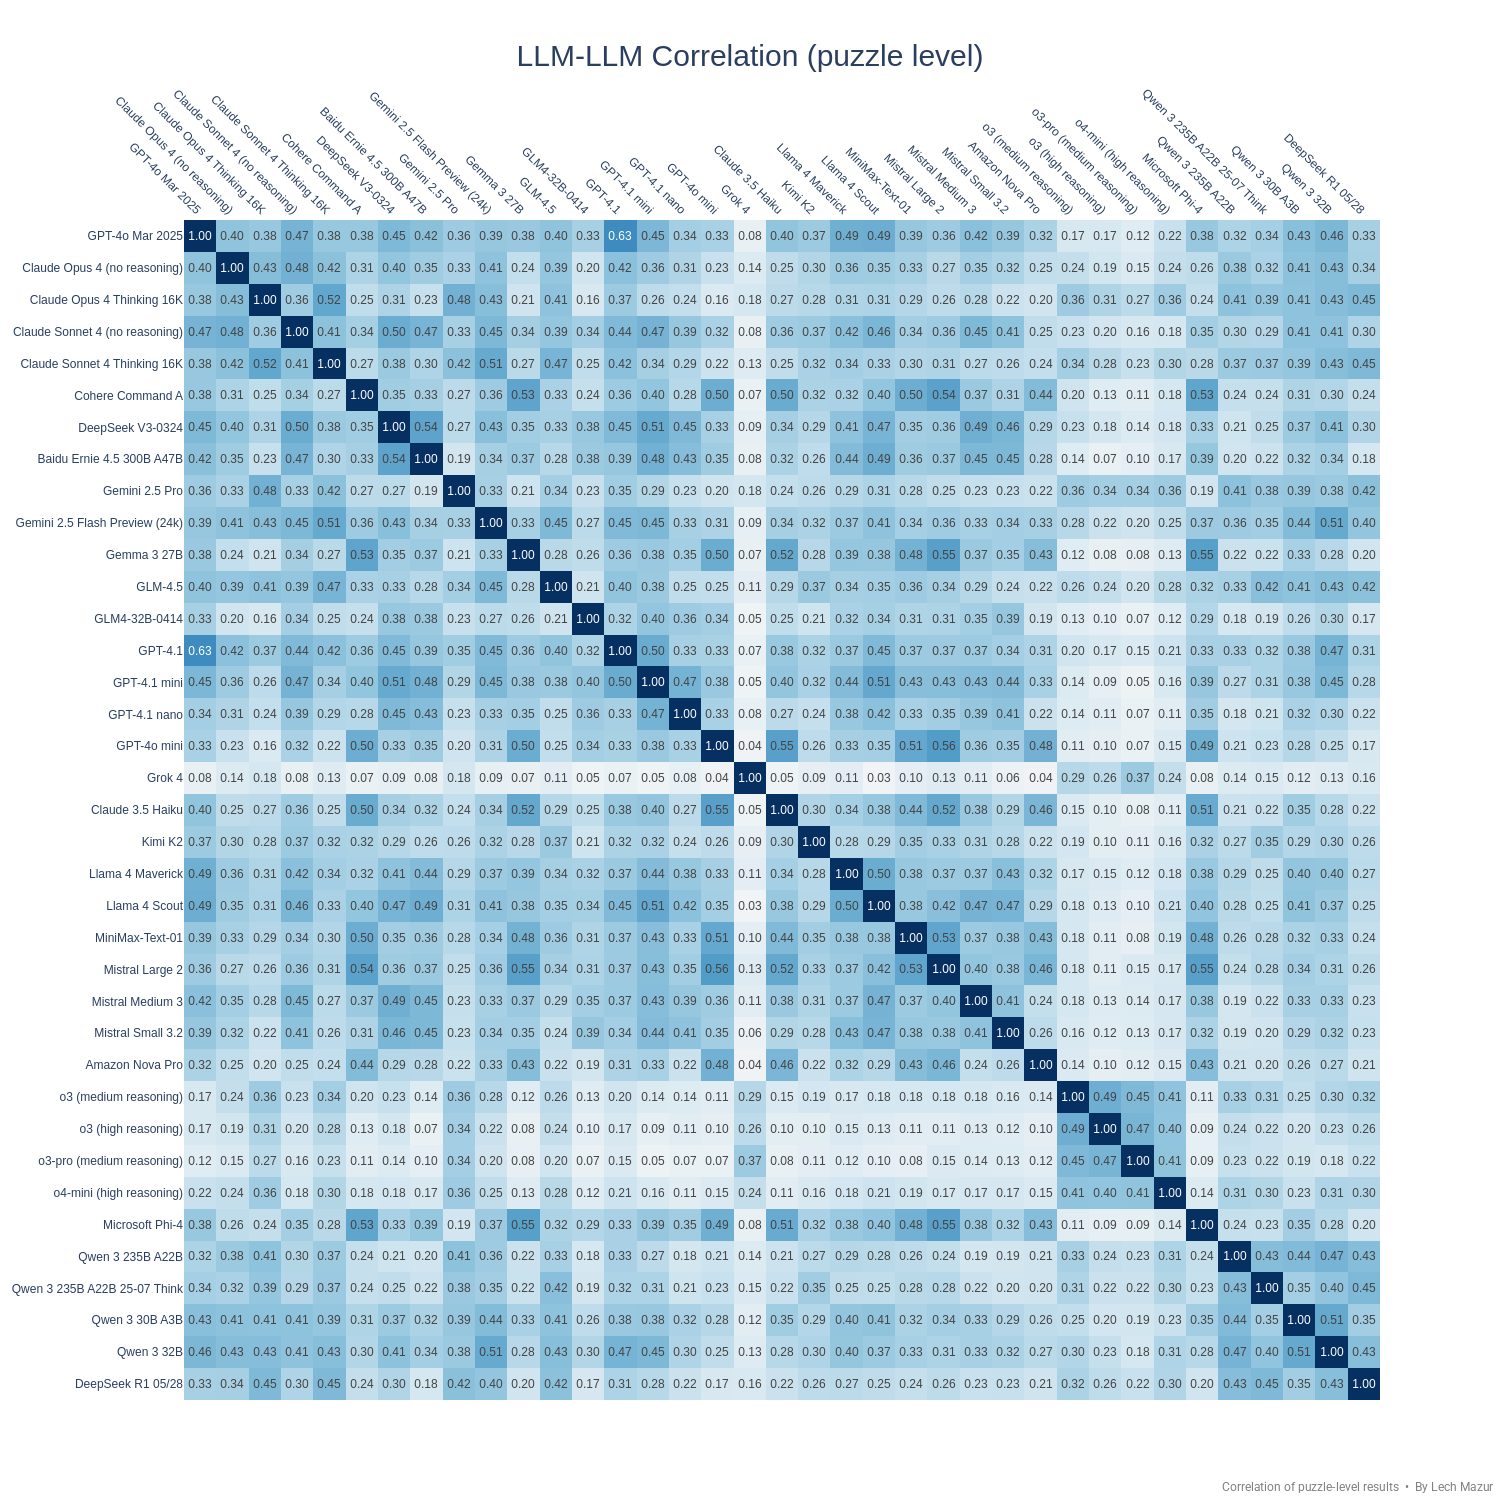
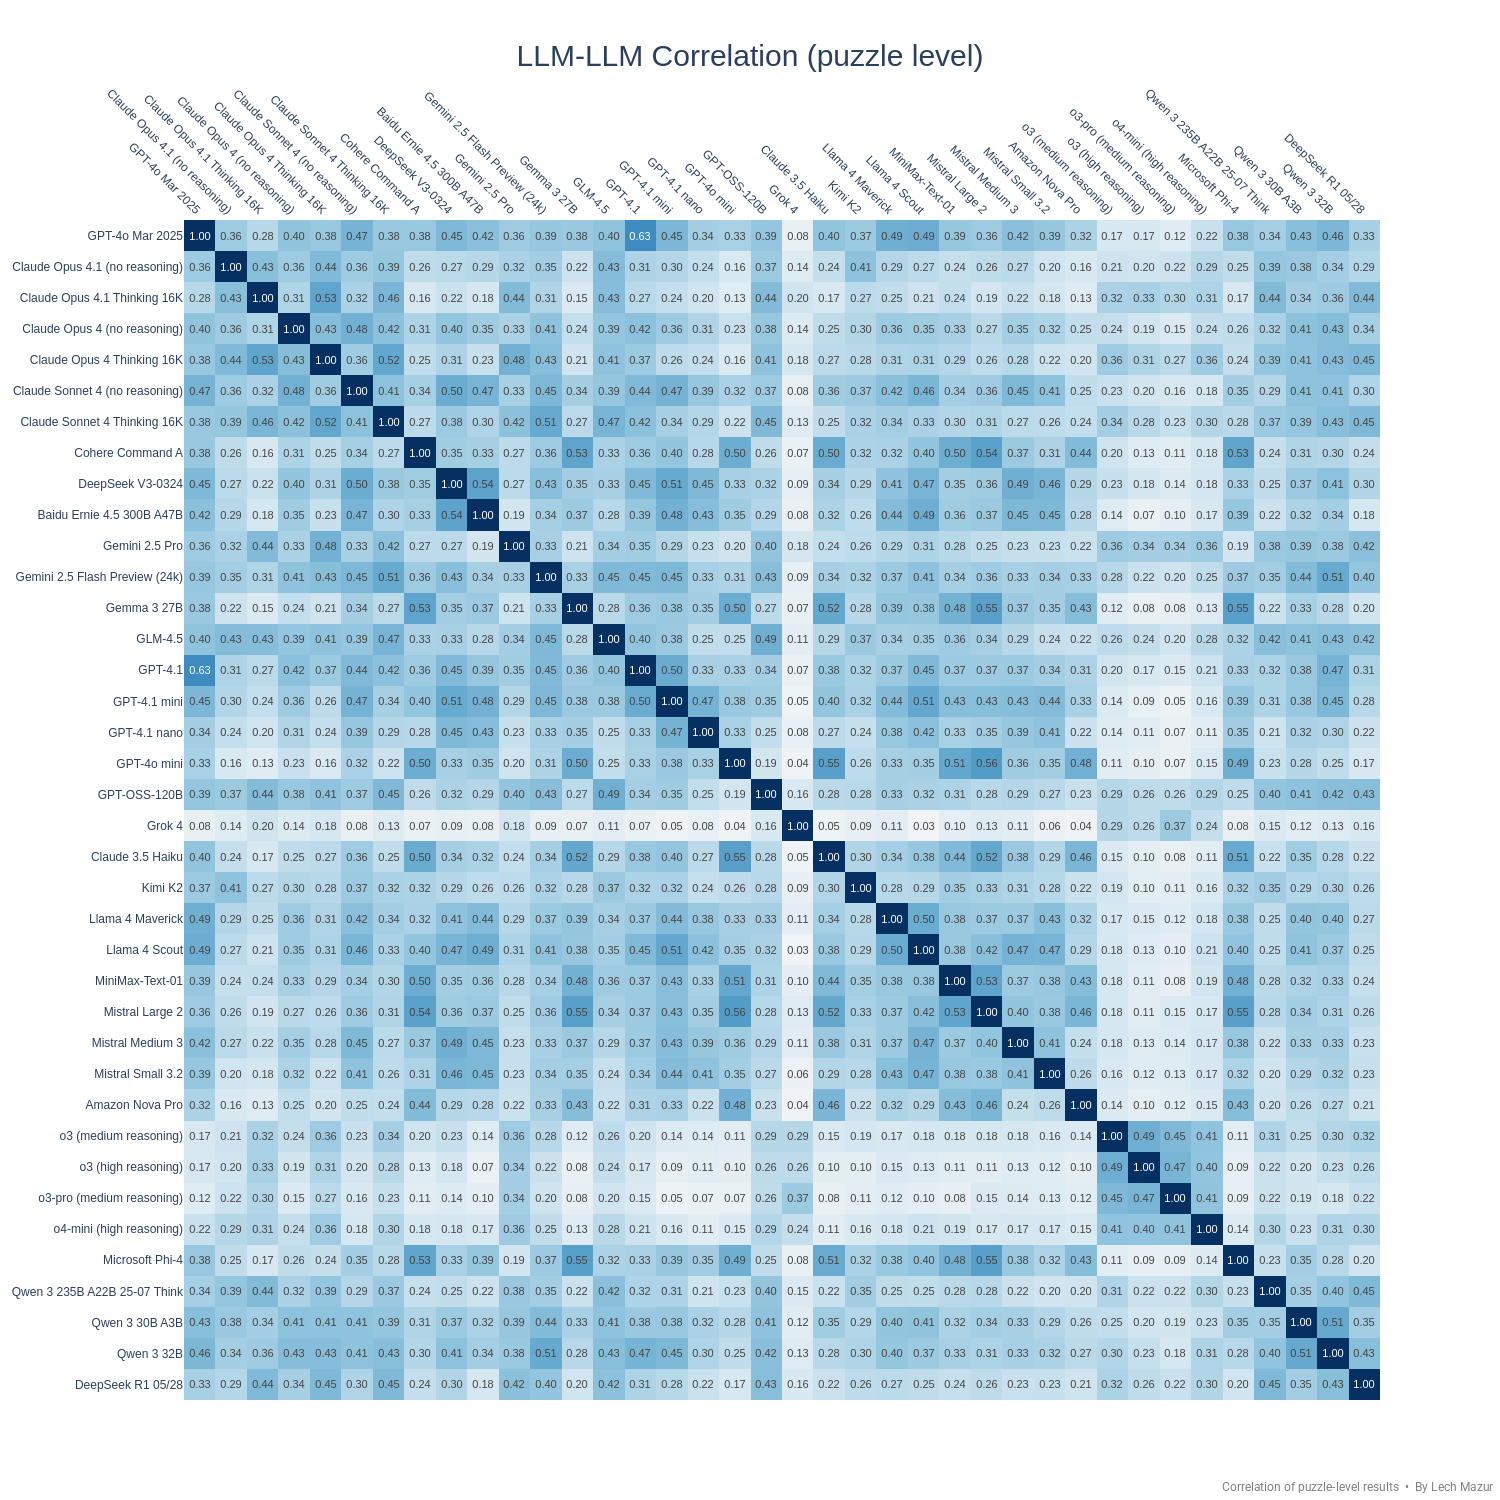
Claude Opus 4.1, GPT-OSS-120B

diff --git a/README.md b/README.md
@@ -21,72 +21,75 @@ As of Feb 4, 2025, there is a new version of the benchmark. The standard NYT Con
 |7|o1 (medium reasoning)|70.8|651|
 |8|o4-mini (medium reasoning)|68.8|651|
 |9|o3-mini (high reasoning)|61.4|651|
-|10|Gemini 2.5 Pro|57.6|759|
-|11|Qwen 3 235B A22B|54.3|759|
-|12|Gemini 2.5 Pro Exp 03-25|54.1|651|
-|13|o3-mini (medium reasoning)|53.6|651|
-|14|Claude Opus 4 Thinking 16K|49.7|759|
-|15|DeepSeek R1 05/28|48.6|759|
-|16|Qwen 3 235B A22B 25-07 Think|46.2|759|
-|17|Gemini 2.5 Pro Preview 05-06|42.5|651|
-|18|Claude Sonnet 4 Thinking 16K|40.3|759|
-|19|Claude Sonnet 4 Thinking 64K|39.6|651|
-|20|DeepSeek R1|38.6|651|
-|21|Qwen 3 30B A3B|36.6|759|
-|22|Qwen 3 32B|35.8|759|
-|23|Claude Opus 4 (no reasoning)|34.4|759|
-|24|GPT-4.5 Preview|34.2|651|
-|25|Claude 3.7 Sonnet Thinking 16K|33.6|651|
-|26|Qwen QwQ-32B 16K|31.4|651|
-|27|Grok 3 Mini Beta (high)|30.2|759|
-|28|GLM-4.5|30.2|759|
-|29|o1-mini|26.9|651|
-|30|Claude Sonnet 4 (no reasoning)|26.6|759|
-|31|Grok 3 Mini Beta (low)|26.0|651|
-|32|Quasar Alpha|25.4|651|
-|33|Gemini 2.5 Flash Preview (24k)|25.2|759|
-|34|GPT-4o Mar 2025|24.5|759|
-|35|Gemini 2.0 Flash Think Exp 01-21|23.1|649|
-|36|GPT-4.1|22.8|759|
-|37|GPT-4o Feb 2025|22.7|651|
-|38|Gemini 2.0 Pro Exp 02-05|21.7|651|
-|39|MiniMax-M1|21.3|688|
-|40|Kimi K2|19.8|759|
-|41|Grok 3 Beta (no reasoning)|19.7|759|
-|42|Grok 2 12-12|19.2|651|
-|43|Gemini 1.5 Pro (Sept)|19.2|601|
-|44|Claude 3 Opus|19.2|650|
-|45|Claude 3.7 Sonnet|19.2|651|
-|46|Gemini 2.0 Flash|18.8|651|
-|47|GPT-4o 2024-11-20|18.7|601|
-|48|Llama 4 Maverick|18.5|759|
-|49|Qwen 2.5 Max|18.0|651|
-|50|GPT-4o 2024-08-06|17.8|601|
-|51|Claude 3.5 Sonnet 2024-10-22|17.7|651|
-|52|Llama 4 Scout|17.4|759|
-|53|DeepSeek V3-0324|16.8|759|
-|54|Llama 3.1 405B|16.2|651|
-|55|DeepSeek V3|15.1|651|
-|56|Llama 3.3 70B|15.1|651|
-|57|Baidu Ernie 4.5 300B A47B|14.8|759|
-|58|GPT-4.1 mini|14.4|759|
-|59|MiniMax-Text-01|13.8|759|
-|60|Cohere Command A|13.1|759|
-|61|Mistral Large 2|12.4|759|
-|62|Gemma 2 27B|12.2|651|
-|63|Gemma 3 27B|11.6|759|
-|64|Mistral Medium 3|11.5|759|
-|65|Mistral Small 3.1|11.4|651|
-|66|Mistral Small 3.2|11.2|759|
-|67|Qwen 2.5 72B|10.5|759|
-|68|Claude 3.5 Haiku|10.0|759|
-|69|Amazon Nova Pro|9.9|759|
-|70|Microsoft Phi-4|9.9|759|
-|71|GPT-4o mini|9.7|759|
-|72|Mistral Small 3|8.9|601|
-|73|GPT-4.1 nano|8.1|759|
-|74|GLM4-32B-0414|7.6|759|
-|75|Claude 3 Haiku|2.2|601|
+|10|Claude Opus 4.1 Thinking 16K|58.8|759|
+|11|Gemini 2.5 Pro|57.6|759|
+|12|Qwen 3 235B A22B|54.3|759|
+|13|Gemini 2.5 Pro Exp 03-25|54.1|651|
+|14|o3-mini (medium reasoning)|53.6|651|
+|15|Claude Opus 4 Thinking 16K|49.7|759|
+|16|DeepSeek R1 05/28|48.6|759|
+|17|Qwen 3 235B A22B 25-07 Think|46.2|759|
+|18|Gemini 2.5 Pro Preview 05-06|42.5|651|
+|19|Claude Sonnet 4 Thinking 16K|40.3|759|
+|20|Claude Sonnet 4 Thinking 64K|39.6|651|
+|21|GPT-OSS-120B|38.7|759|
+|22|DeepSeek R1|38.6|651|
+|23|Claude Opus 4.1 (no reasoning)|37.1|759|
+|24|Qwen 3 30B A3B|36.6|759|
+|25|Qwen 3 32B|35.8|759|
+|26|Claude Opus 4 (no reasoning)|34.4|759|
+|27|GPT-4.5 Preview|34.2|651|
+|28|Claude 3.7 Sonnet Thinking 16K|33.6|651|
+|29|Qwen QwQ-32B 16K|31.4|651|
+|30|Grok 3 Mini Beta (high)|30.2|759|
+|31|GLM-4.5|30.2|759|
+|32|o1-mini|26.9|651|
+|33|Claude Sonnet 4 (no reasoning)|26.6|759|
+|34|Grok 3 Mini Beta (low)|26.0|651|
+|35|Quasar Alpha|25.4|651|
+|36|Gemini 2.5 Flash Preview (24k)|25.2|759|
+|37|GPT-4o Mar 2025|24.5|759|
+|38|Gemini 2.0 Flash Think Exp 01-21|23.1|649|
+|39|GPT-4.1|22.8|759|
+|40|GPT-4o Feb 2025|22.7|651|
+|41|Gemini 2.0 Pro Exp 02-05|21.7|651|
+|42|MiniMax-M1|21.3|688|
+|43|Kimi K2|19.8|759|
+|44|Grok 3 Beta (no reasoning)|19.7|759|
+|45|Grok 2 12-12|19.2|651|
+|46|Gemini 1.5 Pro (Sept)|19.2|601|
+|47|Claude 3 Opus|19.2|650|
+|48|Claude 3.7 Sonnet|19.2|651|
+|49|Gemini 2.0 Flash|18.8|651|
+|50|GPT-4o 2024-11-20|18.7|601|
+|51|Llama 4 Maverick|18.5|759|
+|52|Qwen 2.5 Max|18.0|651|
+|53|GPT-4o 2024-08-06|17.8|601|
+|54|Claude 3.5 Sonnet 2024-10-22|17.7|651|
+|55|Llama 4 Scout|17.4|759|
+|56|DeepSeek V3-0324|16.8|759|
+|57|Llama 3.1 405B|16.2|651|
+|58|DeepSeek V3|15.1|651|
+|59|Llama 3.3 70B|15.1|651|
+|60|Baidu Ernie 4.5 300B A47B|14.8|759|
+|61|GPT-4.1 mini|14.4|759|
+|62|MiniMax-Text-01|13.8|759|
+|63|Cohere Command A|13.1|759|
+|64|Mistral Large 2|12.4|759|
+|65|Gemma 2 27B|12.2|651|
+|66|Gemma 3 27B|11.6|759|
+|67|Mistral Medium 3|11.5|759|
+|68|Mistral Small 3.1|11.4|651|
+|69|Mistral Small 3.2|11.2|759|
+|70|Qwen 2.5 72B|10.5|759|
+|71|Claude 3.5 Haiku|10.0|759|
+|72|Amazon Nova Pro|9.9|759|
+|73|Microsoft Phi-4|9.9|759|
+|74|GPT-4o mini|9.7|759|
+|75|Mistral Small 3|8.9|601|
+|76|GPT-4.1 nano|8.1|759|
+|77|GLM4-32B-0414|7.6|759|
+|78|Claude 3 Haiku|2.2|601|
 
 
 ---
@@ -191,6 +194,7 @@ This benchmark evaluates large language models (LLMs) using 436 NYT Connections 
 ---
 
 ## Updates
+- Aug 5, 2025: Claude Opus 4.1, GPT-OSS-120B added.
 - July 28, 2025: GLM-4.5, Qwen 3 235B A22B 25-07 Thinking added.
 - July 14, 2025: 108 new puzzles added. Kimi K2 added.
 - July 10, 2025: Grok 4 added.
